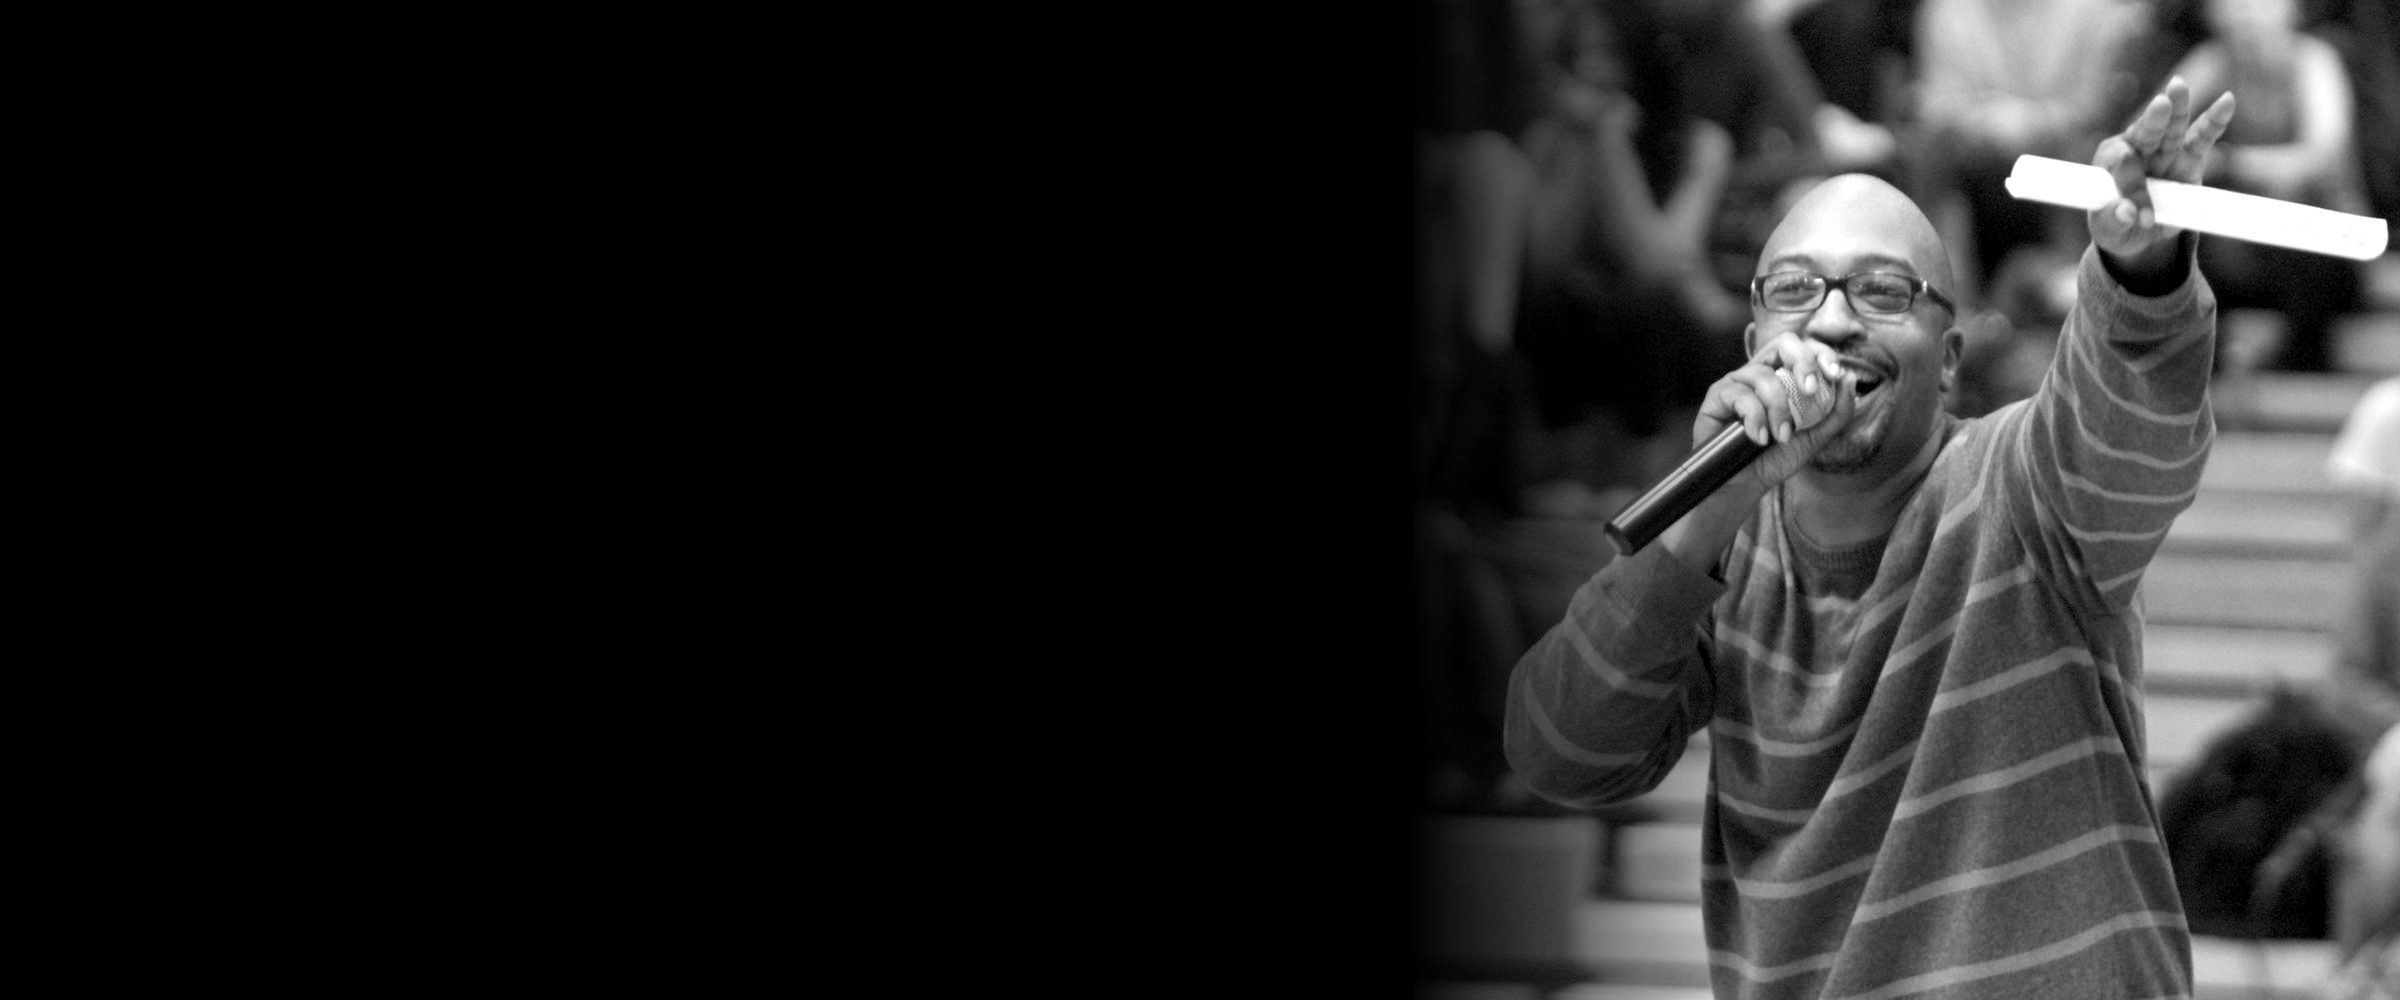
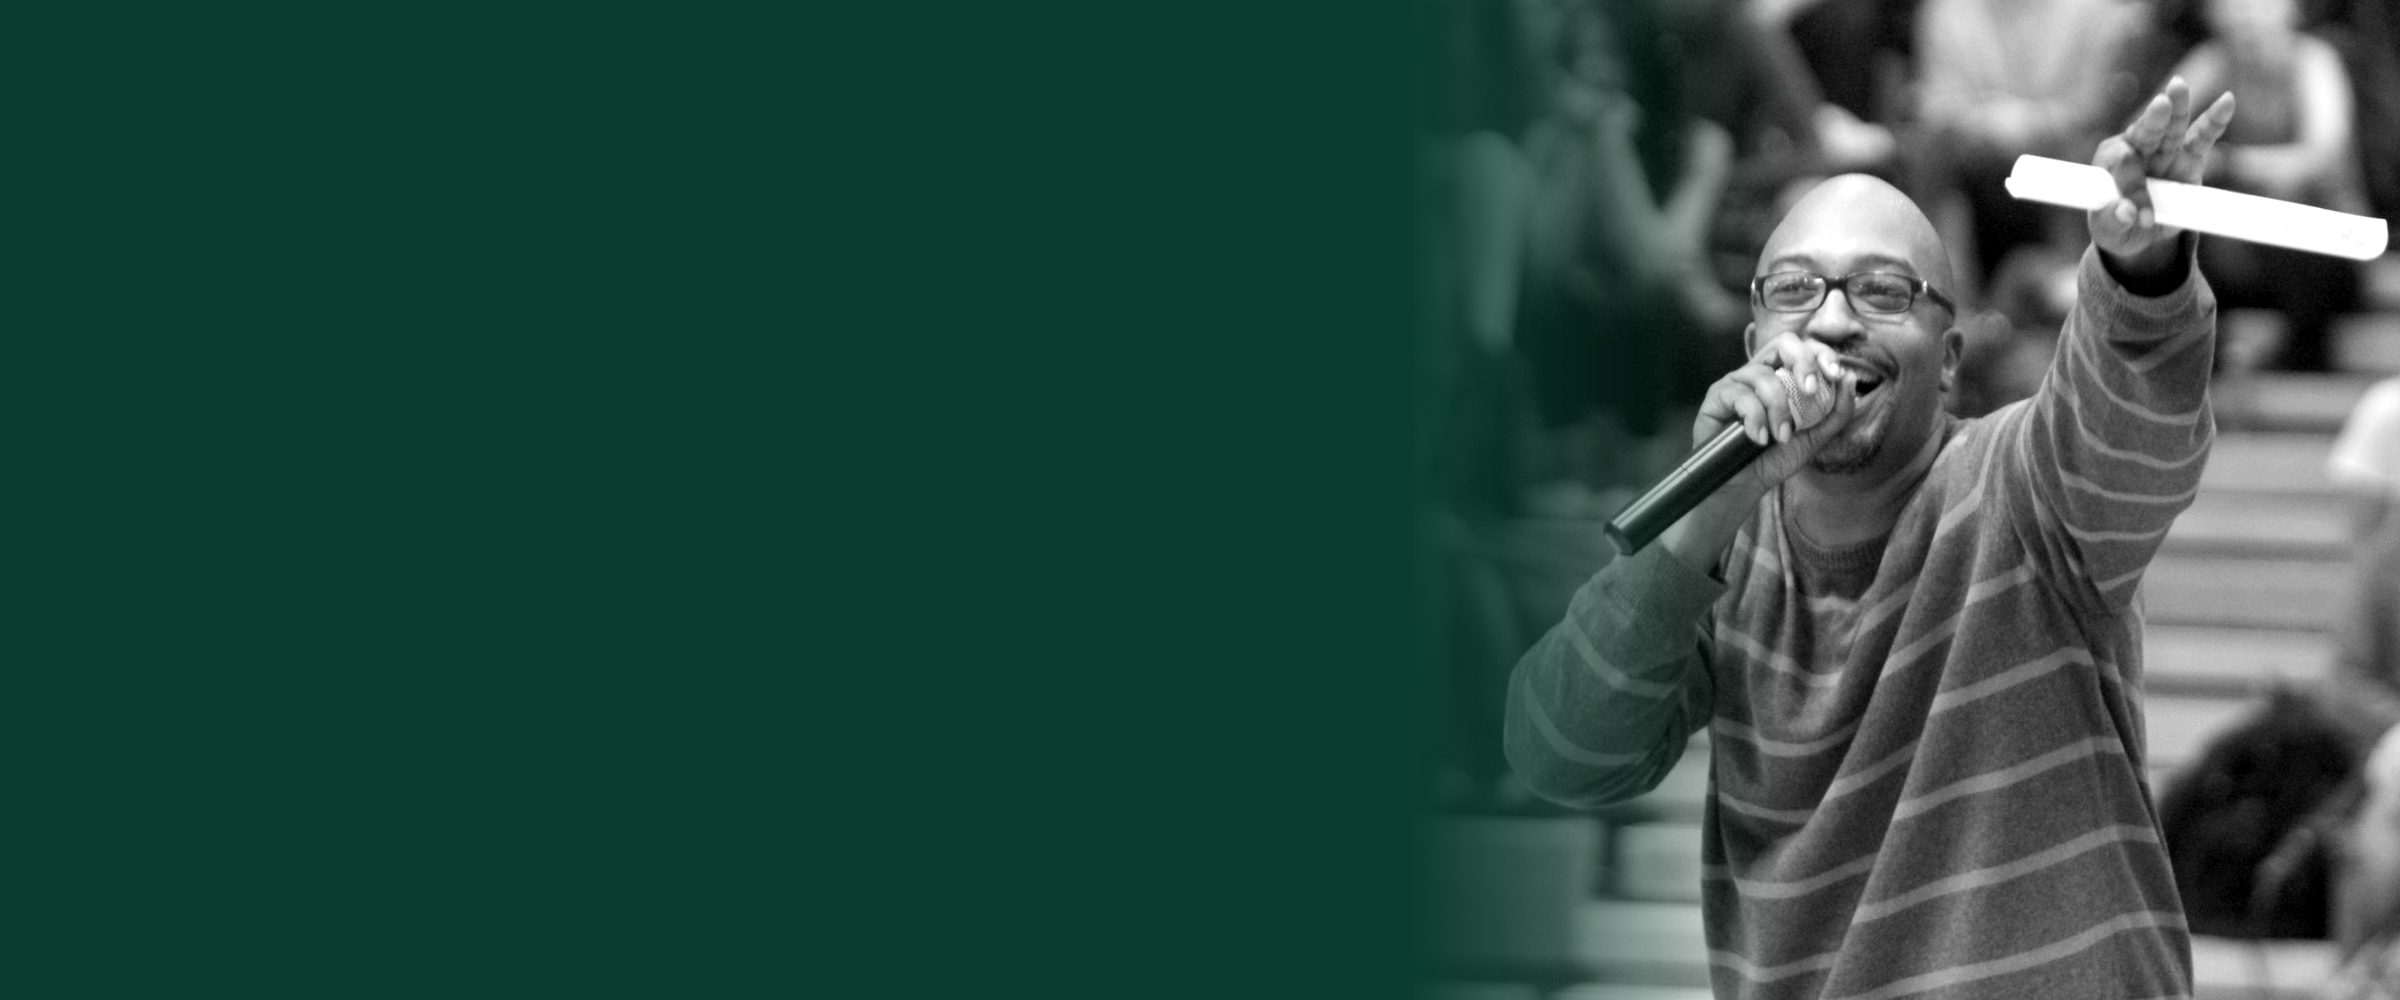
Hero photos fade into brand green (removes dark band)
Claude-Session: https://claude.ai/code/session_01S5K1kNounDgq4GaAtvX6of

diff --git a/index.html b/index.html
@@ -10,7 +10,7 @@
 <link rel="preconnect" href="https://fonts.gstatic.com" crossorigin>
 <link href="https://fonts.googleapis.com/css2?family=Archivo:wdth,wght@62..125,400..900&amp;family=IBM+Plex+Sans:wght@400;500;600&amp;display=swap" rel="stylesheet">
 <link rel="stylesheet" href="/css/styles.css">
-<style>@media (max-width:720px){.home-hero{background:linear-gradient(180deg,rgba(11,61,46,.75),#0B3D2E 70%),url(/assets/ut-muhammad-home-bg.jpg?v=2) 88% top/cover no-repeat,#0B3D2E !important}}</style>
+<style>@media (max-width:720px){.home-hero{background:linear-gradient(180deg,rgba(11,61,46,.75),#0B3D2E 70%),url(/assets/ut-muhammad-home-bg.jpg?v=3) 88% top/cover no-repeat,#0B3D2E !important}}</style>
 </head>
 <body>
 <div style="min-height:100%;display:flex;flex-direction:column">
@@ -33,7 +33,7 @@
 </div>
 </header>
 
-<section class="home-hero" style="position:relative;color:#FFFFFF;background:linear-gradient(90deg,#0B3D2E 0%,rgba(11,61,46,.95) 34%,rgba(11,61,46,.45) 56%,rgba(11,61,46,.12) 100%),url(/assets/ut-muhammad-home-bg.jpg?v=2) right bottom/auto 100% no-repeat,#0B3D2E">
+<section class="home-hero" style="position:relative;color:#FFFFFF;background:linear-gradient(90deg,#0B3D2E 0%,rgba(11,61,46,.95) 34%,rgba(11,61,46,.45) 56%,rgba(11,61,46,.12) 100%),url(/assets/ut-muhammad-home-bg.jpg?v=3) right bottom/auto 100% no-repeat,#0B3D2E">
 <div class="wrap" style="display:flex;flex-wrap:wrap;align-items:center;gap:48px;padding-top:112px;padding-bottom:112px;min-height:600px">
 <div style="flex:0 1 660px;min-width:0;display:flex;flex-direction:column;gap:24px">
 <h1 class="disp hero-h" style="font-size:100px;color:#FFFFFF">Know your value before the market sets it.</h1>

diff --git a/speaking.html b/speaking.html
@@ -10,7 +10,7 @@
 <link rel="preconnect" href="https://fonts.gstatic.com" crossorigin>
 <link href="https://fonts.googleapis.com/css2?family=Archivo:wdth,wght@62..125,400..900&amp;family=IBM+Plex+Sans:wght@400;500;600&amp;display=swap" rel="stylesheet">
 <link rel="stylesheet" href="/css/styles.css">
-<style>@media (max-width:720px){.sp-hero{background:linear-gradient(180deg,rgba(11,61,46,.75),#0B3D2E 70%),url(/assets/ut-muhammad-speaking-bg.jpg?v=2) 85% top/cover no-repeat,#0B3D2E !important}}</style>
+<style>@media (max-width:720px){.sp-hero{background:linear-gradient(180deg,rgba(11,61,46,.75),#0B3D2E 70%),url(/assets/ut-muhammad-speaking-bg.jpg?v=3) 85% top/cover no-repeat,#0B3D2E !important}}</style>
 </head>
 <body>
 <div style="min-height:100%;display:flex;flex-direction:column">
@@ -33,7 +33,7 @@
 </div>
 </header>
 
-<section class="sp-hero" style="position:relative;color:#FFFFFF;background:linear-gradient(90deg,#0B3D2E 0%,rgba(11,61,46,.95) 34%,rgba(11,61,46,.45) 56%,rgba(11,61,46,.12) 100%),url(/assets/ut-muhammad-speaking-bg.jpg?v=2) right bottom/auto 100% no-repeat,#0B3D2E">
+<section class="sp-hero" style="position:relative;color:#FFFFFF;background:linear-gradient(90deg,#0B3D2E 0%,rgba(11,61,46,.95) 34%,rgba(11,61,46,.45) 56%,rgba(11,61,46,.12) 100%),url(/assets/ut-muhammad-speaking-bg.jpg?v=3) right bottom/auto 100% no-repeat,#0B3D2E">
 <div class="wrap" style="display:flex;flex-wrap:wrap;gap:48px;align-items:center;padding-top:112px;padding-bottom:112px;min-height:560px">
 <div style="flex:0 1 640px;min-width:0;display:flex;flex-direction:column;gap:22px">
 <p class="eyebrow" style="color:#D9B44A">Keynotes · Workshops · Panels · Seminars</p>
